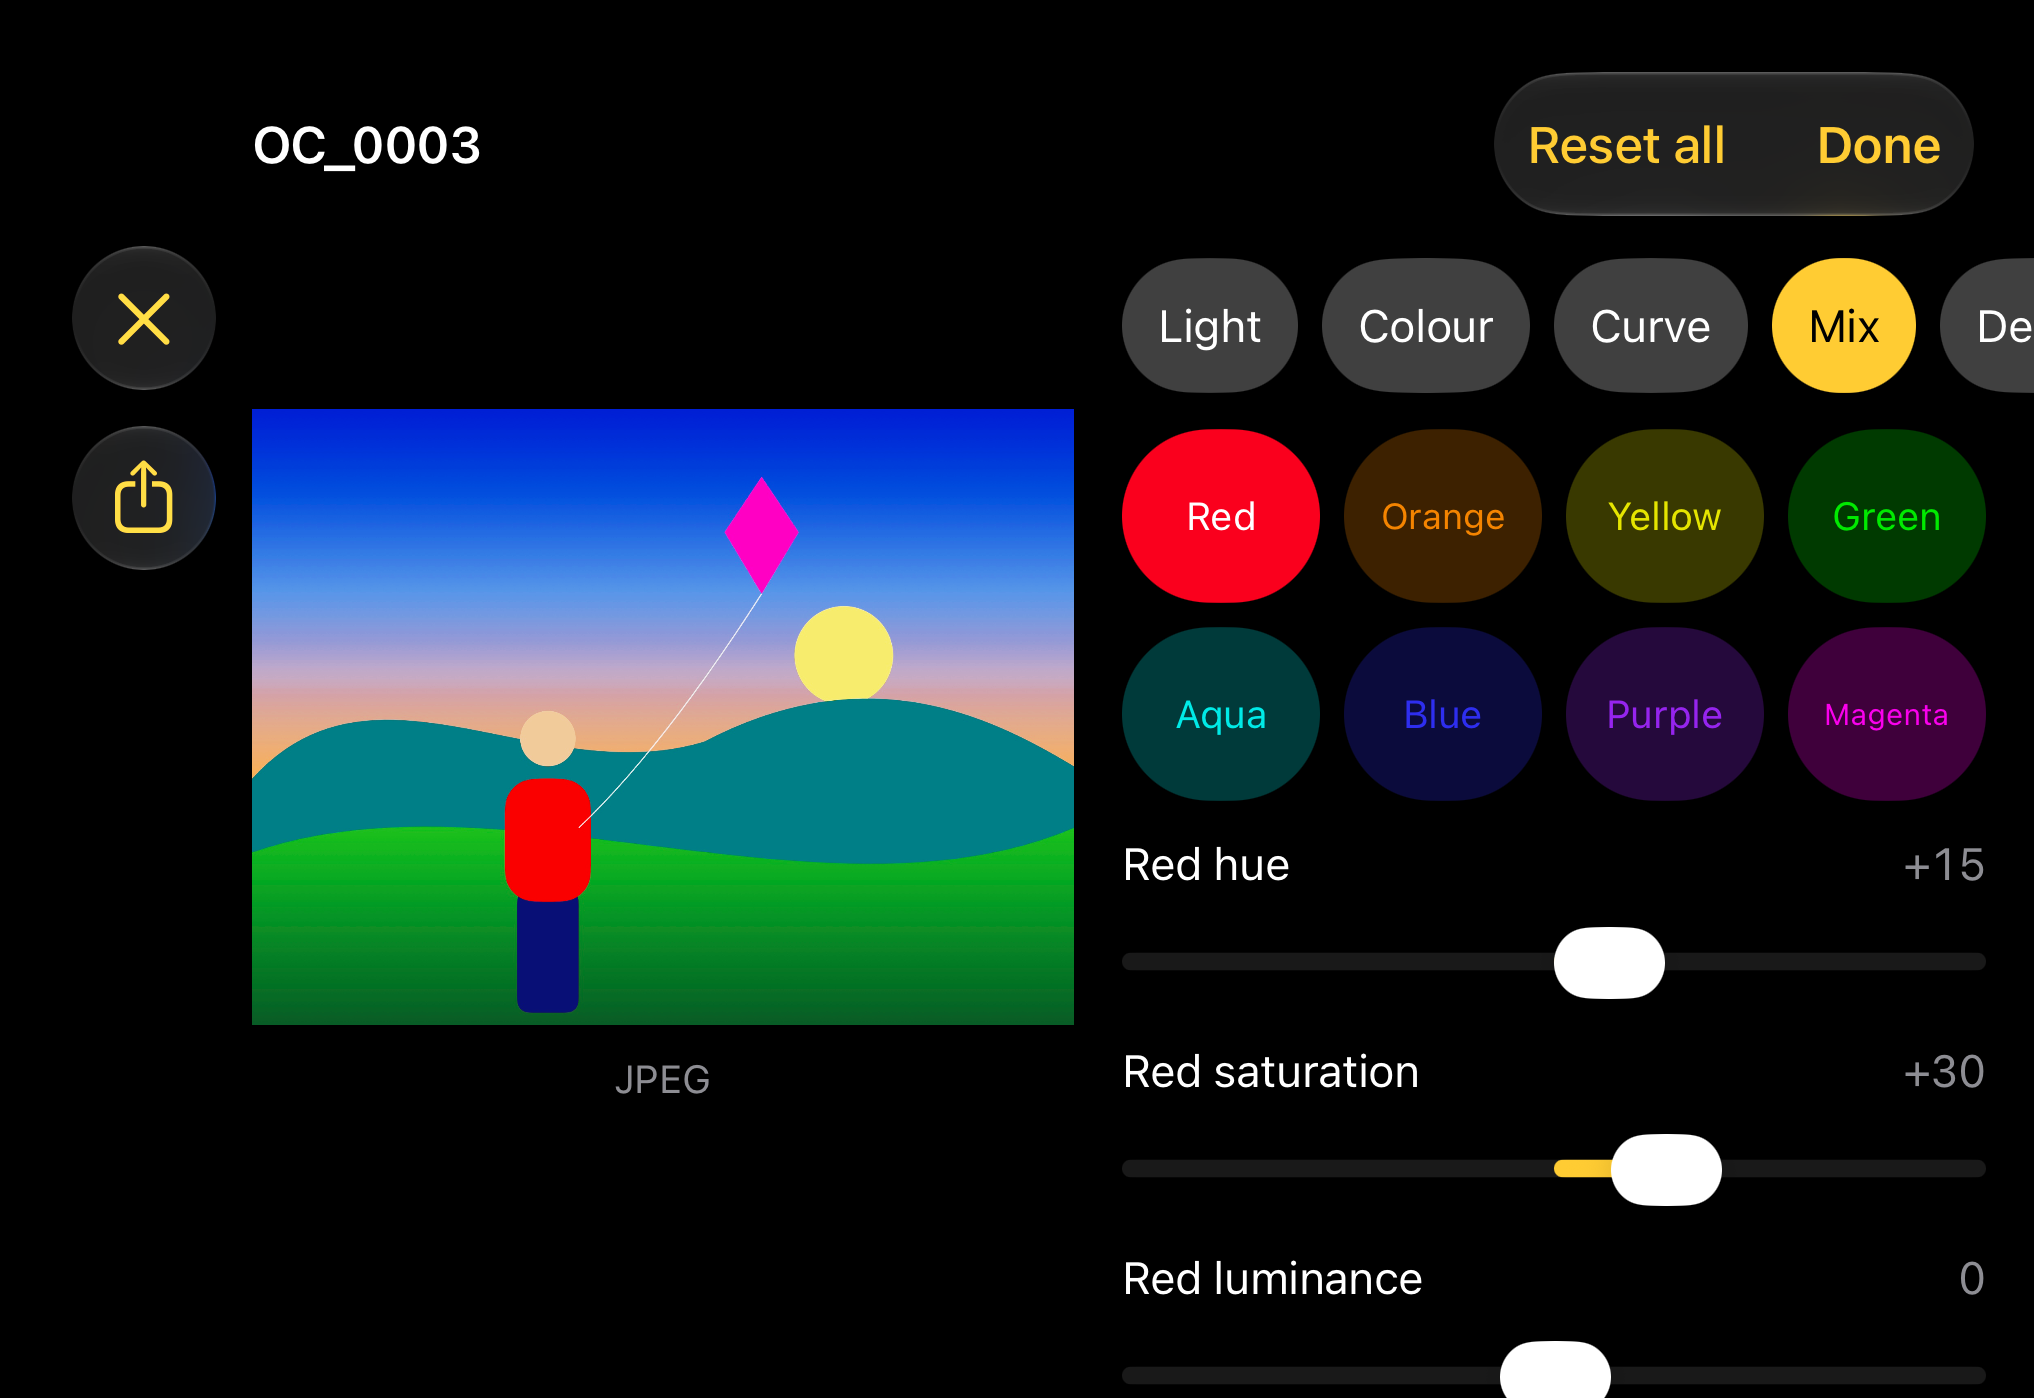
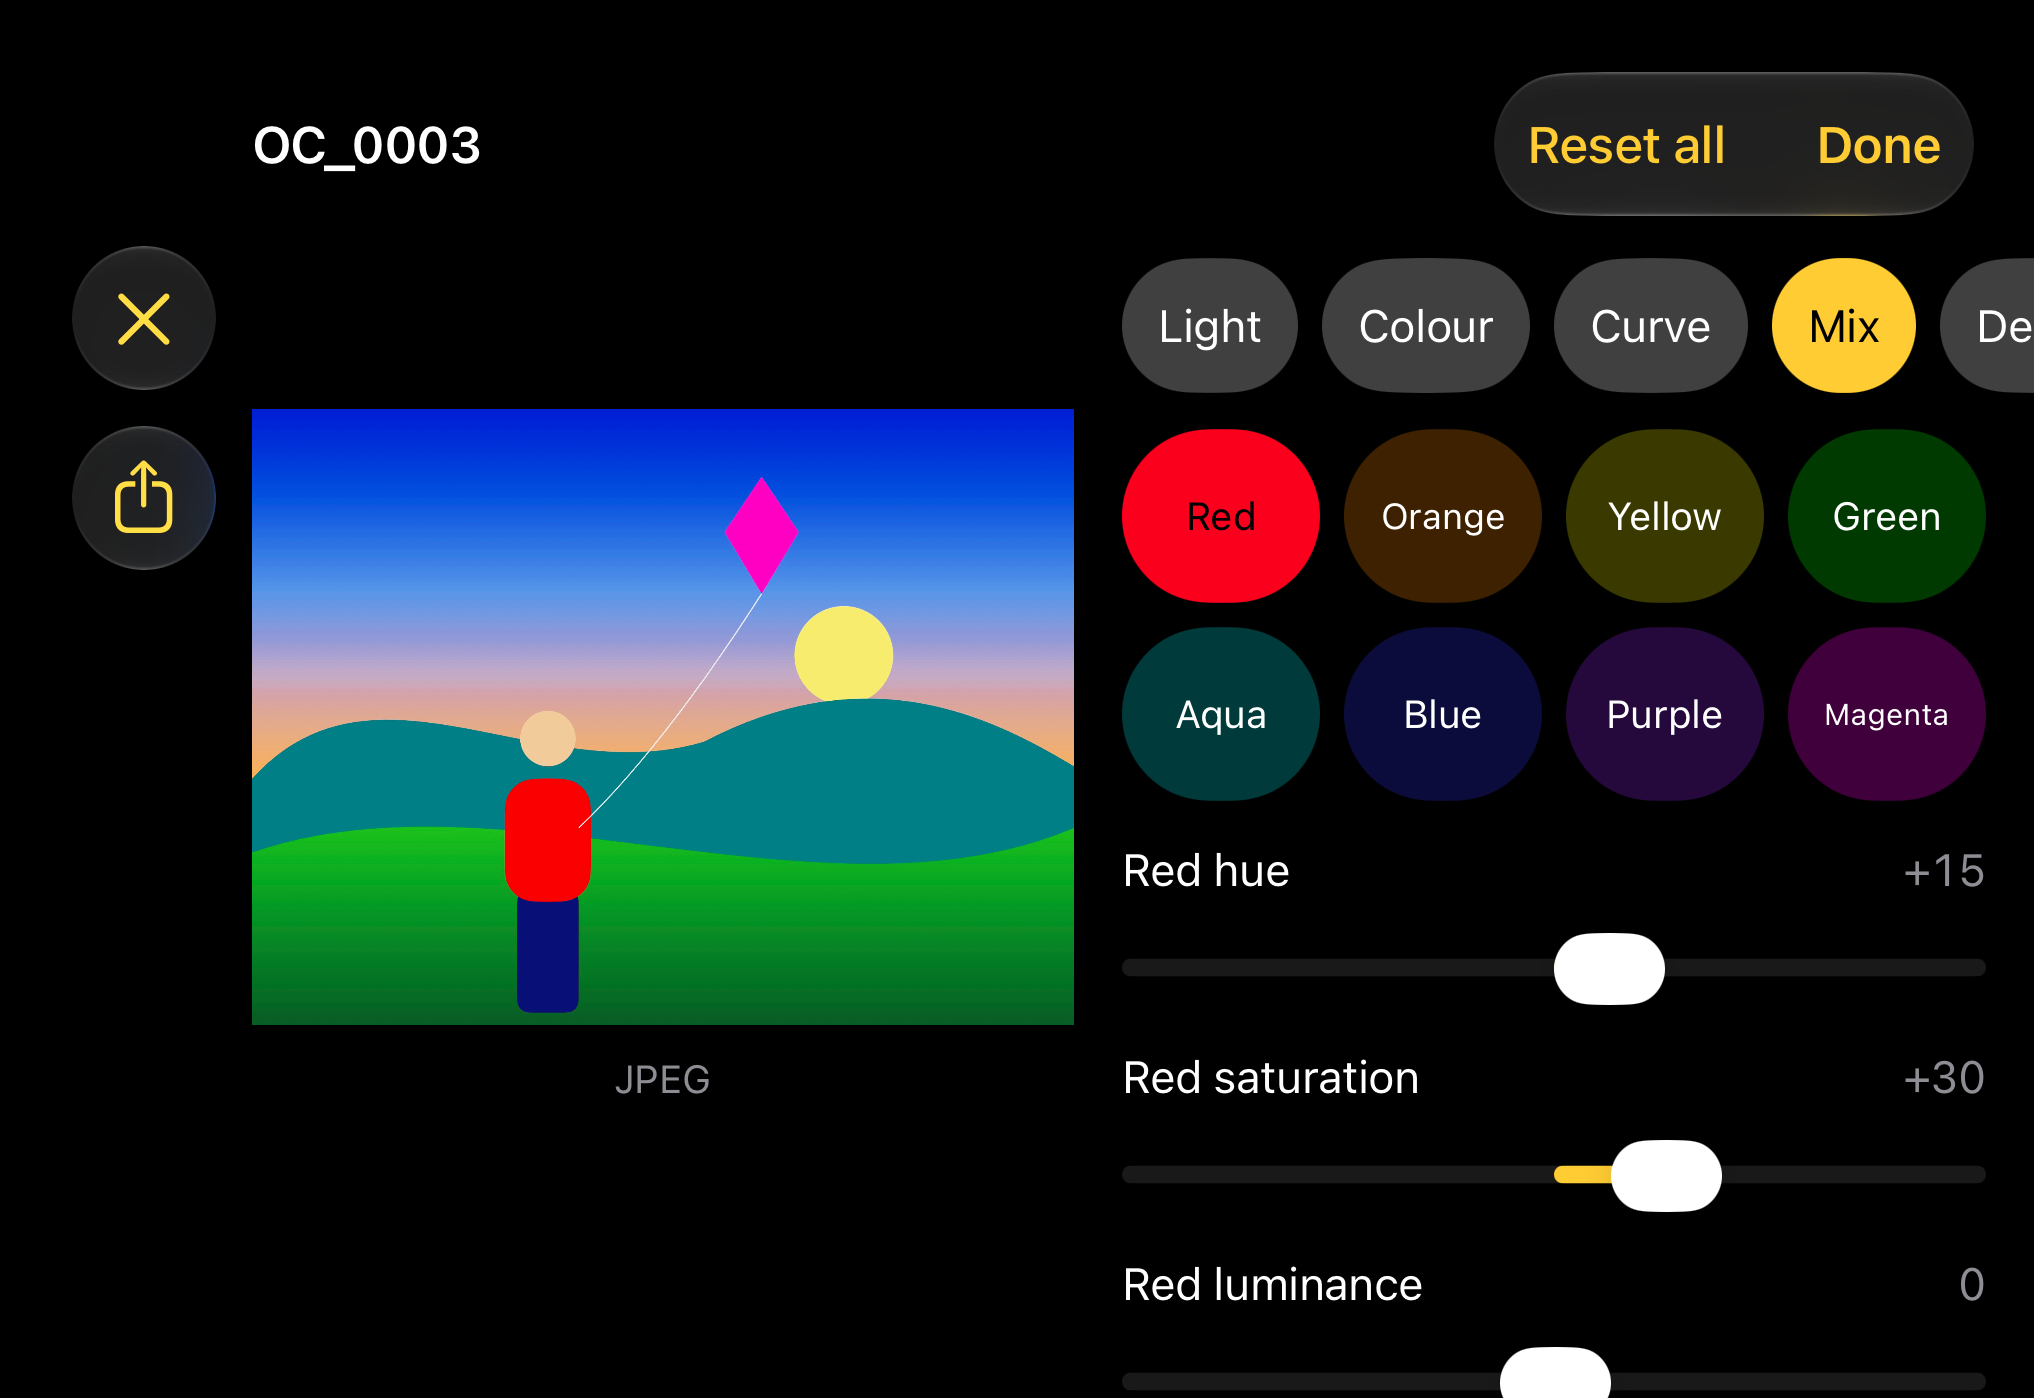
fix: mix on the clamped colour, read the mixer from precomputed lanes and make the band labels legible

diff --git a/OpenCam/Edit/Adjustments.swift b/OpenCam/Edit/Adjustments.swift
@@ -9,25 +9,27 @@ nonisolated struct Adjustments: Codable, Sendable, Hashable {
     /// Every key added after the fourteen above (the mixer's). Never holds a zero: the subscript removes a key set to 0, so
     /// the synthesized `Equatable` and `Hashable` stay right and a value moved back to 0 equals `Adjustments()`.
     private var toolValues: [AdjustmentKey: Double] = [:]
+    /// The mixer's values as vectors for the colour table, updated only where `toolValues` is (the subscript's added-key branch).
+    private(set) var mixer = MixerLanes()
 
     init() {}
 
     /// A key named by its raw value, or "curves".
-    private struct CodingKey: Swift.CodingKey {
+    private struct Key: CodingKey {
         let stringValue: String
         var intValue: Int? { nil }
         init(stringValue: String) { self.stringValue = stringValue }
         init?(intValue: Int) { nil }
         init(_ key: AdjustmentKey) { stringValue = key.rawValue }
-        static let curves = CodingKey(stringValue: "curves")
+        static let curves = Key(stringValue: "curves")
     }
 
     /// Every key is optional, unknown keys are ignored, and each value is clamped to its range.
     /// A `curves` value that is present but malformed throws, so the edit stays unreadable rather than being overwritten.
     init(from decoder: any Decoder) throws {
-        let container = try decoder.container(keyedBy: CodingKey.self)
+        let container = try decoder.container(keyedBy: Key.self)
         for key in AdjustmentKey.allCases {
-            self[key] = try container.decodeIfPresent(Double.self, forKey: CodingKey(key)) ?? 0
+            self[key] = try container.decodeIfPresent(Double.self, forKey: Key(key)) ?? 0
         }
         curves = try container.decodeIfPresent(ToneCurves.self, forKey: .curves) ?? ToneCurves()
     }
@@ -35,19 +37,19 @@ nonisolated struct Adjustments: Codable, Sendable, Hashable {
     /// Writes the fourteen original keys always, each later key only when it is not 0, and `curves` only when it is not
     /// identity, so an edit that uses none of the later tools encodes as it always did.
     func encode(to encoder: any Encoder) throws {
-        var container = encoder.container(keyedBy: CodingKey.self)
+        var container = encoder.container(keyedBy: Key.self)
         for key in AdjustmentKey.allCases.prefix(Self.originalKeyCount) {
-            try container.encode(self[key], forKey: CodingKey(key))
+            try container.encode(self[key], forKey: Key(key))
         }
         // In `allCases` order, so the same edit always writes the same bytes.
         for key in AdjustmentKey.allCases.dropFirst(Self.originalKeyCount) {
-            if let value = toolValues[key] { try container.encode(value, forKey: CodingKey(key)) }
+            if let value = toolValues[key] { try container.encode(value, forKey: Key(key)) }
         }
         if !curves.isIdentity { try container.encode(curves, forKey: .curves) }
     }
 
-    /// True when any mixer value is not 0. A dictionary count, so the colour table can ask it at every lattice point.
-    var hasMixerValues: Bool { !toolValues.isEmpty }
+    /// True when any mixer value is not 0. One stored flag, so the colour table can ask it at every lattice point.
+    var hasMixerValues: Bool { !mixer.isZero }
 
     /// The keys that have a stored property of their own.
     private static let originalKeyCount = 14
@@ -89,7 +91,9 @@ nonisolated struct Adjustments: Codable, Sendable, Hashable {
             case .noiseReduction: noiseReduction = value
             case .grain: grain = value
             case .vignette: vignette = value
-            default: toolValues[key] = value == 0 ? nil : value
+            default:
+                toolValues[key] = value == 0 ? nil : value
+                mixer.set(key, to: value)
             }
         }
     }

diff --git a/OpenCamTests/MixerTests.swift b/OpenCamTests/MixerTests.swift
@@ -17,12 +17,19 @@ import Testing
         #expect(abs(shifted.x - 0.75) < 1e-4); #expect(abs(shifted.y - 0.5) < 1e-4); #expect(abs(shifted.z - 0.25) < 1e-4)
         let grey = Adjustments().setting(.saturation, to: -100).setting(.mixRedSaturation, to: 100)
         let out = ColourMath.apply(grey, to: SIMD3(0.8, 0.3, 0.3)); #expect(abs(out.x - out.y) < 1e-5) }   // a grey stays grey
+    @Test func stageEightWorksOnTheClampedColour() {
+        let base = Adjustments().setting(.saturation, to: 50), input = SIMD3<Float>(0.2, 0.4, 0.9)
+        #expect(abs(ColourMath.apply(base, to: input).y - ColourMath.apply(base.setting(.mixRedHue, to: 1), to: input).y) < 1e-3)
+    }
+    @Test func theMixerLanesFollowTheValues() {
+        #expect(!Adjustments().hasMixerValues); #expect(Adjustments().setting(.mixBlueLuminance, to: -30).hasMixerValues)
+        #expect(!Adjustments().setting(.mixBlueLuminance, to: -30).setting(.mixBlueLuminance, to: 0).hasMixerValues)
+    }
     @Test func bandChoiceIsNotSaved() async throws {
         let (model, captures, looks) = try await EditorFixture.make(width: 64, height: 48); model.mixBand = .blue; model.adjustments[.mixBlueLuminance] = -30; #expect(model.save())
         guard let item = LibraryScanner.items(in: captures).first else { throw TestFileError.bitmapUnavailable }
         let reopened = EditorModel(item: item, edits: EditStore(directory: captures), looks: looks); await reopened.load()
         #expect(reopened.mixBand == .red); #expect(reopened.adjustments[.mixBlueLuminance] == -30); #expect(LookSeeder.colourStudy[.mixBlueLuminance] == -30) }
-    @Test func theMixPanelKeepsRoomForTheBandsAndTheFirstSliders() { #expect(EditorLayout.minPanelHeight(for: .mix) == 340) }
     @Test func theEncoderWritesAnAddedKeyOnlyWhenItIsNotZero() throws {
         let a = Adjustments().setting(.mixGreenHue, to: -20)
         let written = try JSONDecoder().decode([String: Double].self, from: JSONEncoder().encode(a))

diff --git a/OpenCam/Render/ColourMath.swift b/OpenCam/Render/ColourMath.swift
@@ -73,13 +73,12 @@ nonisolated enum ColourMath {
         y = luma(x)
         x = SIMD3(repeating: y) + (x - SIMD3(repeating: y)) * (1 + t(.saturation))
 
-        // 8: colour mixer. Skipped outright when no mixer value is set, which is the cheapest check there is; the vectors are
-        // written out per band, in `ColourBand.allCases` order, because this runs at every lattice point of a table.
+        // 8: colour mixer, on the clamped colour (stage 7 can leave a channel outside 0...1, and the mixer reads hue and
+        // saturation). Skipped outright when no mixer value is set. The lanes are precomputed in `Adjustments`, because this
+        // runs at every lattice point of a table.
         if adjustments.hasMixerValues {
-            x = mix(x,
-                    hue: SIMD8(t(.mixRedHue), t(.mixOrangeHue), t(.mixYellowHue), t(.mixGreenHue), t(.mixAquaHue), t(.mixBlueHue), t(.mixPurpleHue), t(.mixMagentaHue)),
-                    saturation: SIMD8(t(.mixRedSaturation), t(.mixOrangeSaturation), t(.mixYellowSaturation), t(.mixGreenSaturation), t(.mixAquaSaturation), t(.mixBlueSaturation), t(.mixPurpleSaturation), t(.mixMagentaSaturation)),
-                    luminance: SIMD8(t(.mixRedLuminance), t(.mixOrangeLuminance), t(.mixYellowLuminance), t(.mixGreenLuminance), t(.mixAquaLuminance), t(.mixBlueLuminance), t(.mixPurpleLuminance), t(.mixMagentaLuminance)))
+            let lanes = adjustments.mixer
+            x = mix(clamp01(x), hue: lanes.hue, saturation: lanes.saturation, luminance: lanes.luminance)
         }
 
         // 9: clamp.

diff --git a/OpenCam/UI/Editor/MixPanel.swift b/OpenCam/UI/Editor/MixPanel.swift
@@ -33,6 +33,8 @@ struct MixPanel: View {
                 }
             }
         }
+        // The first slider's reset target reaches up over the gap above its name row; the padding keeps it off the buttons.
+        .padding(.bottom, AdjustmentSlider.reachUp - Self.rowGap)
         .accessibilityElement(children: .contain)
         .accessibilityLabel("Colour band")
     }
@@ -45,10 +47,21 @@ struct MixPanel: View {
                 .font(.footnote)
                 .lineLimit(1)
                 .minimumScaleFactor(0.6)
-                .frame(maxWidth: .infinity, minHeight: 44)
+                .foregroundStyle(isSelected && band.prefersDarkLabel ? Color.black : Color.white)
+                .frame(maxWidth: .infinity, minHeight: Theme.Size.minTarget)
         }
         .tint(tint)
         .accessibilityAddTraits(isSelected ? .isSelected : [])
         if isSelected { button.buttonStyle(.borderedProminent) } else { button.buttonStyle(.bordered) }
+    }
+}
+
+private extension ColourBand {
+    /// Black reads better than white on the band's bright swatch when white would fall short of the other's contrast.
+    var prefersDarkLabel: Bool {
+        func linear(_ c: Float) -> Float { ColourMath.decode(c) }
+        let s = swatch
+        let luminance = 0.2126 * linear(s.x) + 0.7152 * linear(s.y) + 0.0722 * linear(s.z)
+        return (luminance + 0.05) / 0.05 > 1.05 / (luminance + 0.05)
     }
 }

diff --git a/OpenCam/Edit/MixerLanes.swift b/OpenCam/Edit/MixerLanes.swift
@@ -1,0 +1,26 @@
+import Foundation
+
+/// The colour mixer's values as the lanes `ColourMath.mix` takes: one `SIMD8` each for hue, saturation and luminance, in
+/// `ColourBand` order, each value divided by 100. A pure function of `Adjustments`' stored mixer values, kept beside them so the
+/// colour table reads three vectors at every lattice point instead of 24 dictionary entries.
+nonisolated struct MixerLanes: Sendable, Hashable {
+    private(set) var hue = SIMD8<Float>(repeating: 0)
+    private(set) var saturation = SIMD8<Float>(repeating: 0)
+    private(set) var luminance = SIMD8<Float>(repeating: 0)
+    /// True when every lane is 0, so the mixer changes nothing.
+    private(set) var isZero = true
+
+    /// Writes `value` (-100...100) for a mixer key; any other key is ignored.
+    mutating func set(_ key: AdjustmentKey, to value: Double) {
+        let lane = Float(value) / 100
+        for band in ColourBand.allCases {
+            switch key {
+            case band.hueKey: hue[band.index] = lane
+            case band.saturationKey: saturation[band.index] = lane
+            case band.luminanceKey: luminance[band.index] = lane
+            default: continue
+            }
+        }
+        isZero = hue == .zero && saturation == .zero && luminance == .zero
+    }
+}
